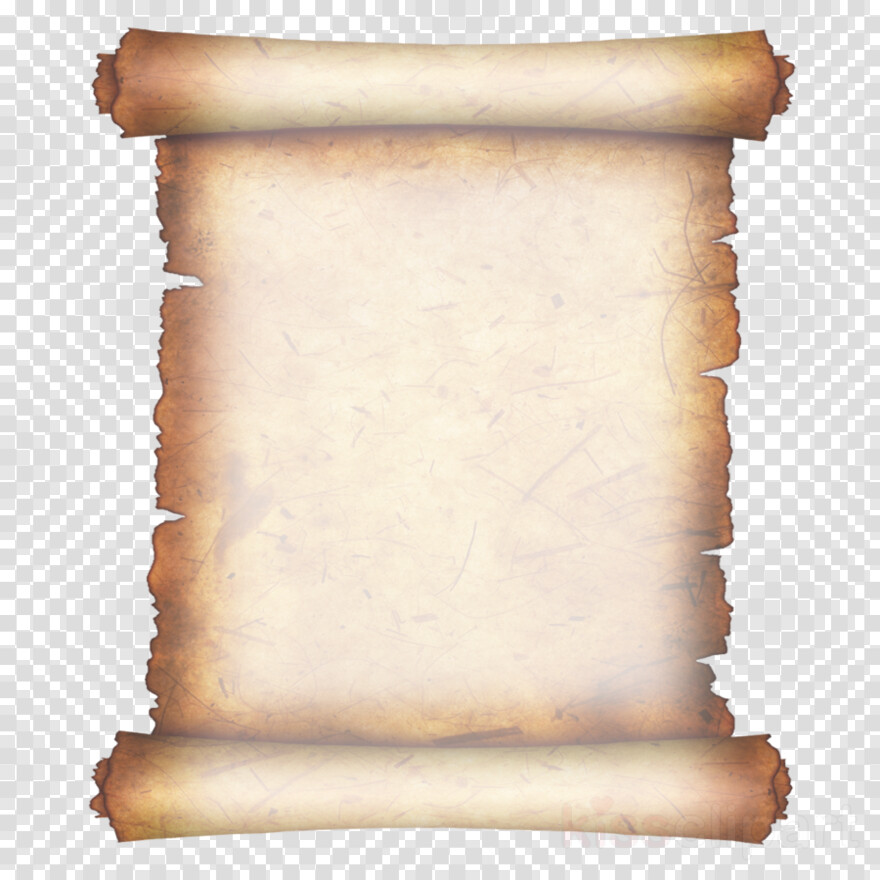
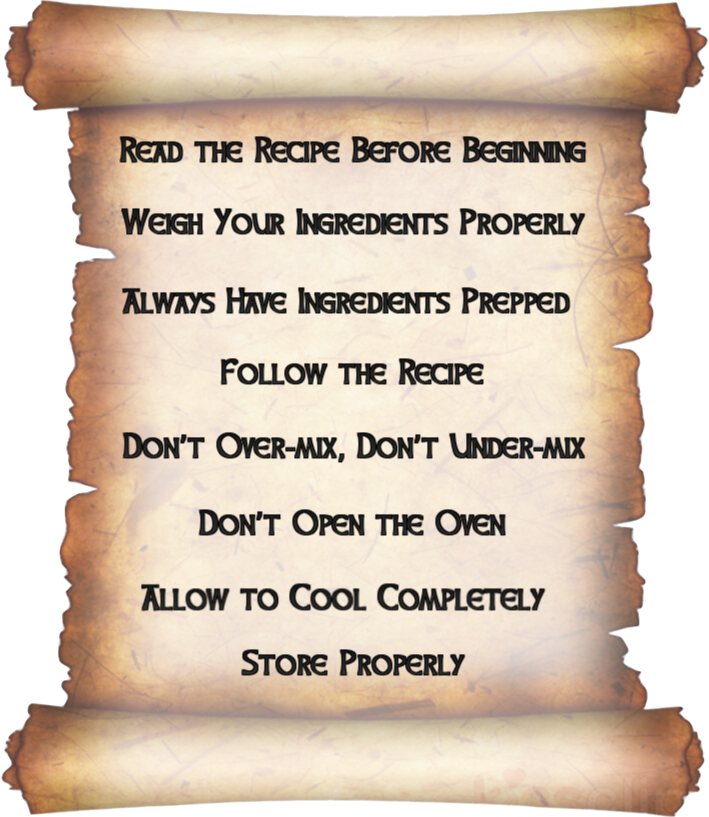
chore: adjusted commandments style

diff --git a/src/Containers/WelcomeScreen/WelcomeScreen.js b/src/Containers/WelcomeScreen/WelcomeScreen.js
@@ -2,6 +2,7 @@ import React, { Component } from 'react'
 import Aux from '../../hoc/Aux'
 import './WelcomeScreen.css'
 import background from '../../assets/pictures/background7.png'
+import comandements from '../../assets/pictures/commandments.png'
 
 class Homescreen extends Component {
   goToCategories = () => {
@@ -18,14 +19,7 @@ class Homescreen extends Component {
         <div className="Background">
           <img src={background} alt="bg" className="bg-homescreen"></img>
           <div className='Homescreen-buttons'>
-            <h3>Read the Recipe Before Beginning</h3>
-            <h3>Weigh Your Ingredients Properly</h3>
-            <h3>Always Have Ingredients Prepped</h3>
-            <h3>Follow the Recipe</h3>
-            <h3>Don’t Over-mix, Don’t Under-mix</h3>
-            <h3>Don’t Open the Oven</h3>
-            <h3>Allow to Cool Completely</h3>
-            <h3>Store Properly</h3>
+            <img src={comandements} alt="bg" className="comandements"></img>
           </div>
         </div>
       </Aux>

diff --git a/src/Components/DishCategories/Breakfast/Breakfast.css b/src/Components/DishCategories/Breakfast/Breakfast.css
@@ -7,8 +7,8 @@
 .SingleRecipeCard {
   cursor: pointer;
   display: inline-block;
-  width: 35%;
-  height: 35%;
+  width: 40%;
+  height: auto;
   background-color: rgb(245, 211, 197);
   border: 2px #eee;
   box-shadow: 0 12px 30px black;

diff --git a/src/Containers/WelcomeScreen/WelcomeScreen.css b/src/Containers/WelcomeScreen/WelcomeScreen.css
@@ -2,6 +2,16 @@
 
 }
 
+.comandements {
+  opacity: 1;
+  width: 40%;
+  height: auto;
+  position: fixed;
+  top: 110px;
+  left: 30%;
+  z-index: 1;
+}
+
 .Homescreen-buttons {
   padding-top: 70px;
   width: 40%;
